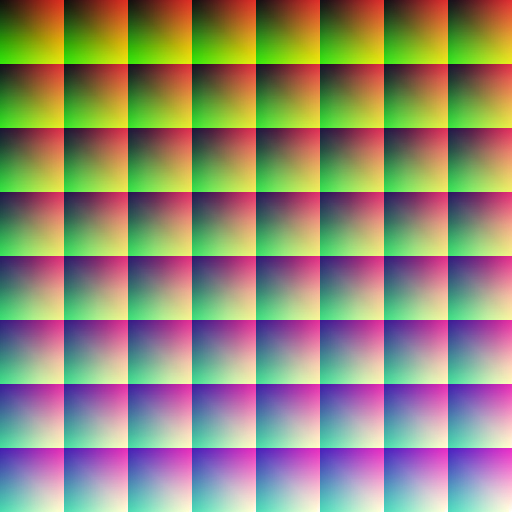
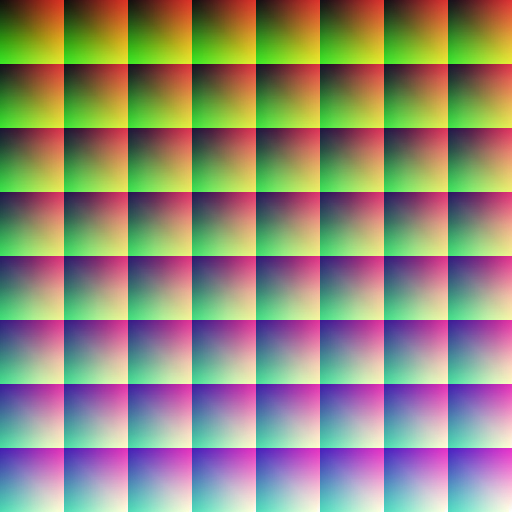
cc

Changed region(s): [[0.0, 0.0938, 0.625, 0.125], [0.6875, 0.0938, 0.75, 0.125], [0.8438, 0.0938, 0.875, 0.125]]

diff --git a/oldschoolvideo.py b/oldschoolvideo.py
@@ -1,5 +1,4 @@
-# pyyy
-
+# coding:utf-8
 from cv2 import cv2
 import numpy as np
 import os
@@ -67,14 +66,14 @@ sharpkernel = np.array([[0, -1, 0], [-1, 5, -1], [0, -1, 0]])
 # purple
 purplesize = 1
 # blur
-blursize = 5
+blursize = 3
 
 def handleImage(src):
     copy = src.copy()
 
     # purple edge
-    channel = copy[:, :, 1]
-    channel[:-purplesize, :-purplesize] = channel[purplesize:, purplesize:]
+    # channel = copy[:, :, 1]
+    # channel[:-purplesize, :-purplesize] = channel[purplesize:, purplesize:]
 
     # blur
     copy = cv2.GaussianBlur(copy, (blursize, blursize), 0)
